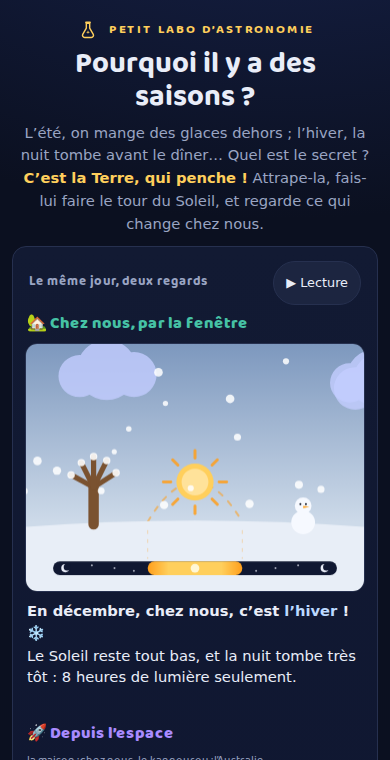
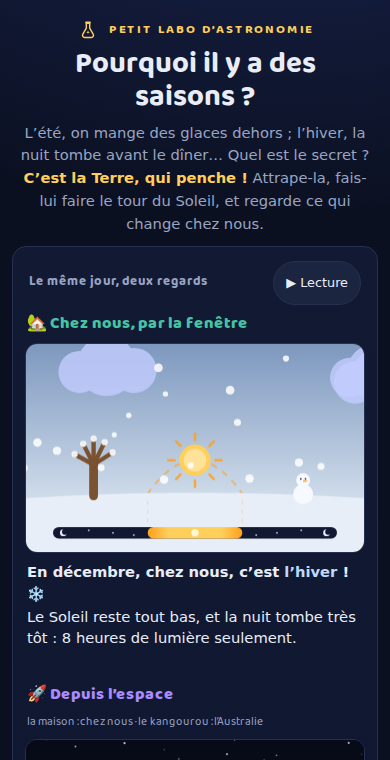
fix: les deux vues tiennent dans un écran de téléphone
La vue de l'espace vivait sous la ligne de flottaison sur iPhone. Les
hauteurs mobiles se compactent (fenêtre min(54vw, 28vh), espace
min(62vw, 33vh)) : du titre de la fenêtre au bas du canvas de l'espace,
~660 px pour ~715 px visibles — les deux regards se voient d'un coup.

Claude-Session: https://claude.ai/code/session_018g4iGsVy9rHqQjnC3SGe4X

diff --git a/css/style.css b/css/style.css
@@ -459,8 +459,11 @@ button:focus-visible, input:focus-visible, a:focus-visible {
      appui-saison, fenêtre ET espace se partagent le viewport du téléphone.
      Hauteurs EXPLICITES, jamais aspect-ratio + max-height (WebKit réduirait
      la largeur de la boîte). */
-  .grille-vues .ratio-fenetre { aspect-ratio: auto; height: min(64vw, 34vh); }
-  .grille-vues .ratio-espace { aspect-ratio: auto; height: min(70vw, 40vh); }
+  /* les DEUX vues et la phrase de la fenêtre tiennent dans un écran de
+     téléphone (~715 px visibles) : mesuré, du titre de la fenêtre au bas
+     du canvas de l'espace, ~660 px */
+  .grille-vues .ratio-fenetre { aspect-ratio: auto; height: min(54vw, 28vh); }
+  .grille-vues .ratio-espace { aspect-ratio: auto; height: min(62vw, 33vh); }
 
   /* la place du PIRE cas (titre 2 lignes + commentaire 3 lignes, mesuré :
      7,4 em au jour 120) est réservée : le nombre de lignes de la phrase ne

diff --git a/CLAUDE.md b/CLAUDE.md
@@ -236,6 +236,11 @@ Vérités verrouillées par `test/model.test.mjs` (à compléter, jamais supprim
 - **Le seuil mobile UNIQUE de l'épisode : 880 px.** La grille CSS, le
   médaillon, le repli de la boîte d'explication et la vue unique du jeu lisent
   tous ce chiffre.
+- **Sur mobile, les DEUX vues tiennent dans un écran de téléphone**
+  (retour utilisateur : l'espace était sous la ligne de flottaison) : du
+  titre de la fenêtre au bas du canvas de l'espace, ~660 px pour ~715 px
+  visibles sur iPhone — hauteurs `min(54vw, 28vh)` (fenêtre) et
+  `min(62vw, 33vh)` (espace), mesurées par script avant tout réglage.
 - **Sur mobile (< 880 px) seulement** : un médaillon flottant (haut droit,
   hors du chemin du pouce) montre la fenêtre de chez nous en miniature dès
   qu'elle sort de l'écran — un tap y ramène. Le jeu n'affiche qu'une vue
